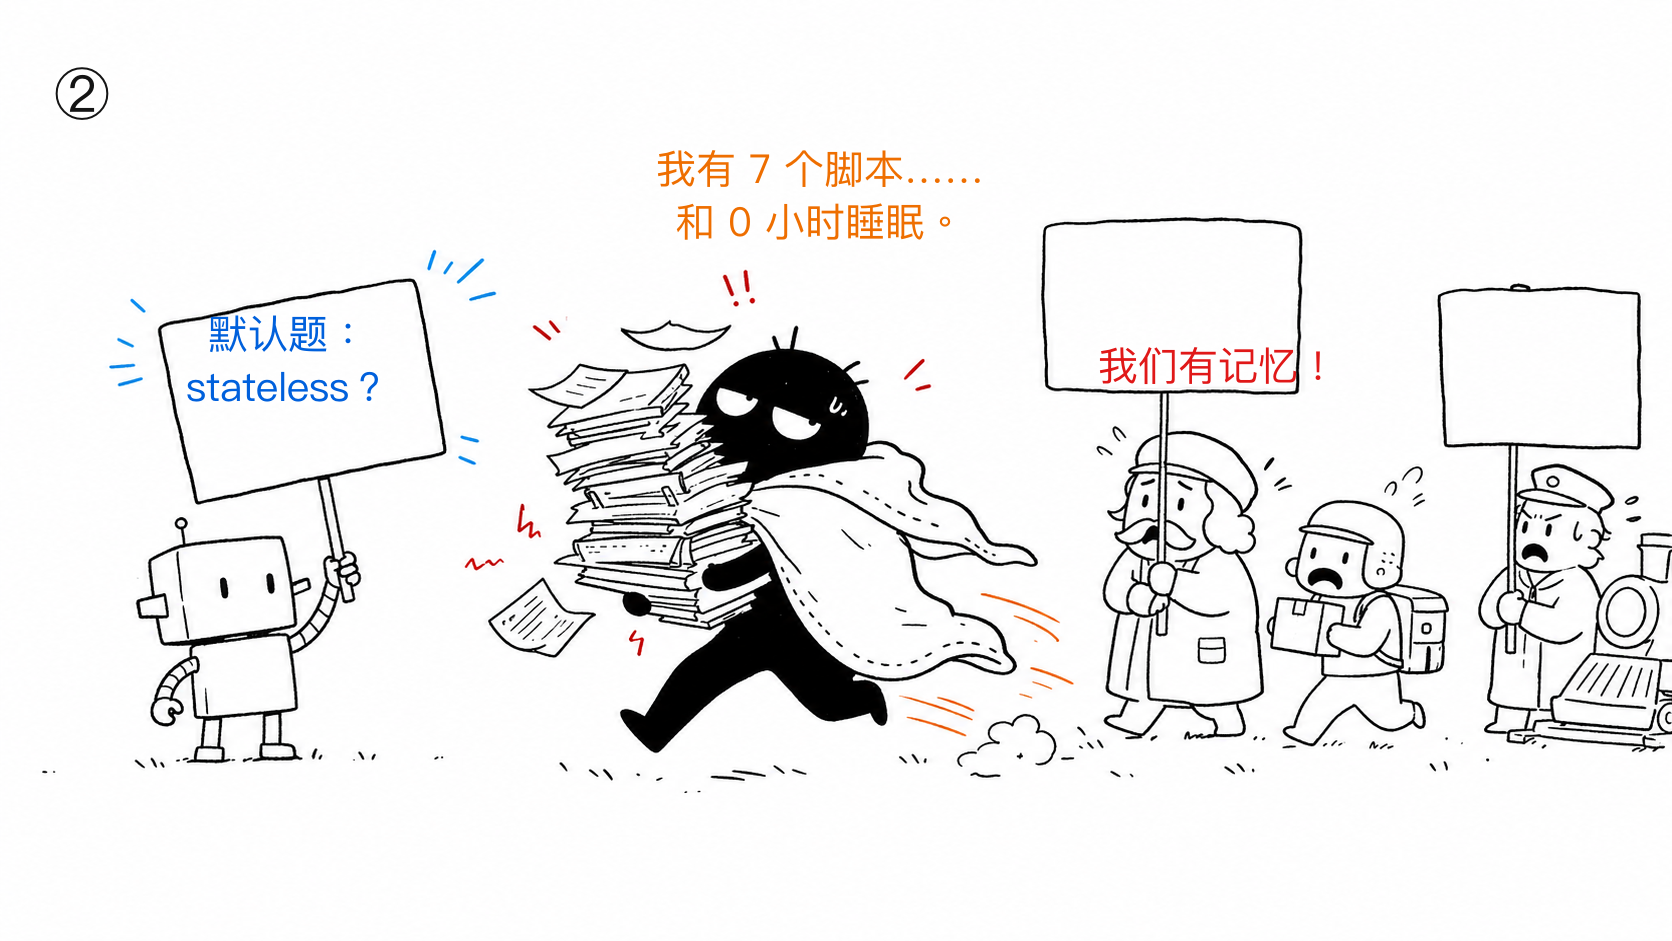
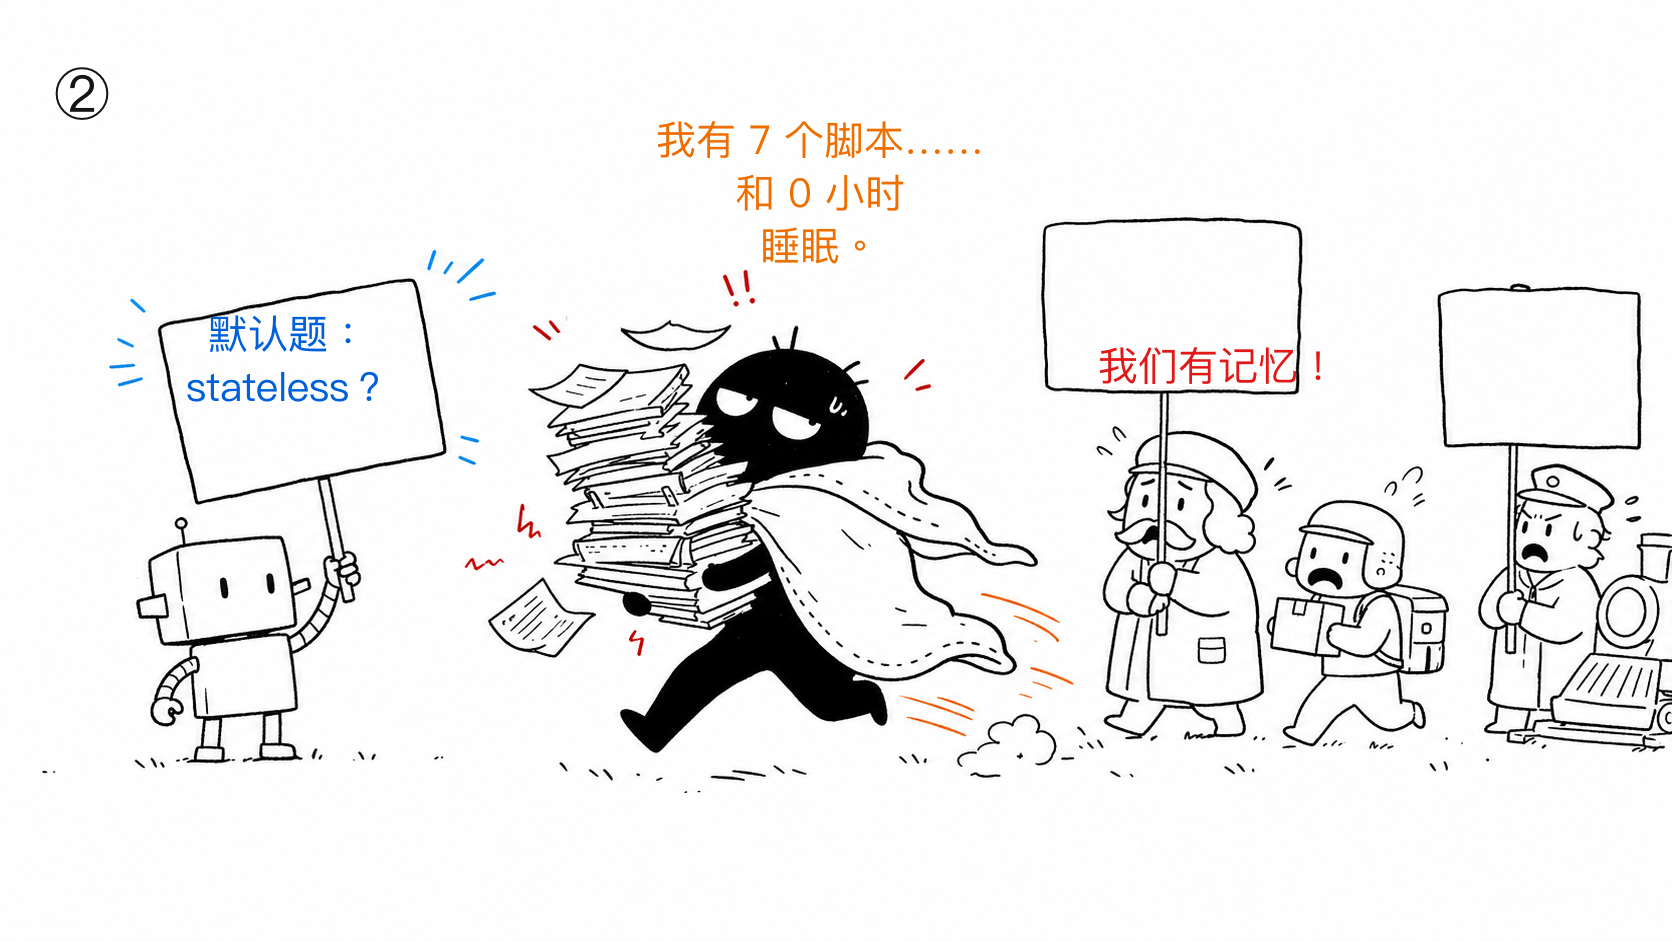
Refine first daily comic lettering

Changed region(s): [[0.3732, 0.1233, 0.5598, 0.2774]]

diff --git a/gallery/daily-4panel/2026-05-29-lingchen-sandian/build_comic.py b/gallery/daily-4panel/2026-05-29-lingchen-sandian/build_comic.py
@@ -59,21 +59,21 @@ def annotate_panel(i):
         text(draw, (55, 55), "①", 54, BLACK)
     elif i == 2:
         fit_text(draw, (145, 290, 430, 430), "默认题：\nstateless？", 40, 24, BLUE)
-        fit_text(draw, (650, 130, 990, 260), "我有 7 个脚本……\n和 0 小时睡眠。", 40, 24, ORANGE)
+        fit_text(draw, (650, 120, 990, 265), "我有 7 个脚本……\n和 0 小时\n睡眠。", 40, 24, ORANGE)
         fit_text(draw, (1085, 310, 1350, 420), "我们有记忆！", 40, 24, RED)
         text(draw, (55, 55), "②", 54, BLACK)
     elif i == 3:
         fit_text(draw, (930, 150, 1290, 265), "声明期望状态，\n流程我来编排。", 34, 22, BLUE)
         fit_text(draw, (640, 710, 960, 790), "……它怎么一点都不慌。", 34, 22, ORANGE)
         labels = ["备份", "恢复", "扩容", "故障切换"]
-        boxes = [(1445, 365, 1595, 420), (1445, 485, 1595, 540), (1445, 610, 1595, 665), (1405, 730, 1615, 785)]
+        boxes = [(1410, 315, 1570, 370), (1410, 435, 1570, 490), (1410, 560, 1570, 615), (1360, 680, 1570, 735)]
         for label, box in zip(labels, boxes):
-            fit_text(draw, box, label, 32, 22, ORANGE)
+            fit_text(draw, box, label, 28, 20, ORANGE)
         text(draw, (55, 55), "③", 54, BLACK)
     elif i == 4:
         fit_text(draw, (80, 185, 540, 355), "昨晚那么大动静，\n是谁救的火？", 42, 24, BLACK)
-        fit_text(draw, (645, 275, 930, 360), "我……主要负责\n没添乱。", 36, 22, ORANGE)
-        fit_text(draw, (1190, 805, 1575, 885), "睡眠：6h\n历史新高", 42, 24, ORANGE)
+        fit_text(draw, (560, 245, 790, 365), "我……主要负责\n没添乱。", 30, 22, ORANGE)
+        fit_text(draw, (1190, 750, 1575, 855), "睡眠：6h\n历史新高", 38, 24, ORANGE)
         fit_text(draw, (1130, 625, 1350, 680), "正常运行", 32, 22, BLUE)
         text(draw, (55, 55), "④", 54, BLACK)
 
@@ -88,8 +88,7 @@ def assemble(paths):
     margin = 40
     gutter = 36
     title_h = 110
-    label_h = 52
-    canvas = Image.new("RGB", (w * 2 + gutter + margin * 2, h * 2 + gutter + margin * 2 + title_h + label_h), "white")
+    canvas = Image.new("RGB", (w * 2 + gutter + margin * 2, h * 2 + gutter + margin * 2 + title_h), "white")
     draw = ImageDraw.Draw(canvas)
     text(draw, (margin, 36), "凌晨三点，数据库城市又响了", 54, BLACK)
     text(draw, (margin, 96), "KubeBlocks 四格漫画试作 | 小黑 = SRE", 28, BLUE)
@@ -103,7 +102,6 @@ def assemble(paths):
         canvas.paste(panel, pos)
         x, y = pos
         draw.rectangle((x, y, x + w, y + h), outline=(220, 220, 220), width=2)
-    text(draw, (margin, canvas.height - 42), "punchline：我主要负责没添乱。", 30, ORANGE)
     out = ROOT / "comic.png"
     canvas.save(out)
     return out
